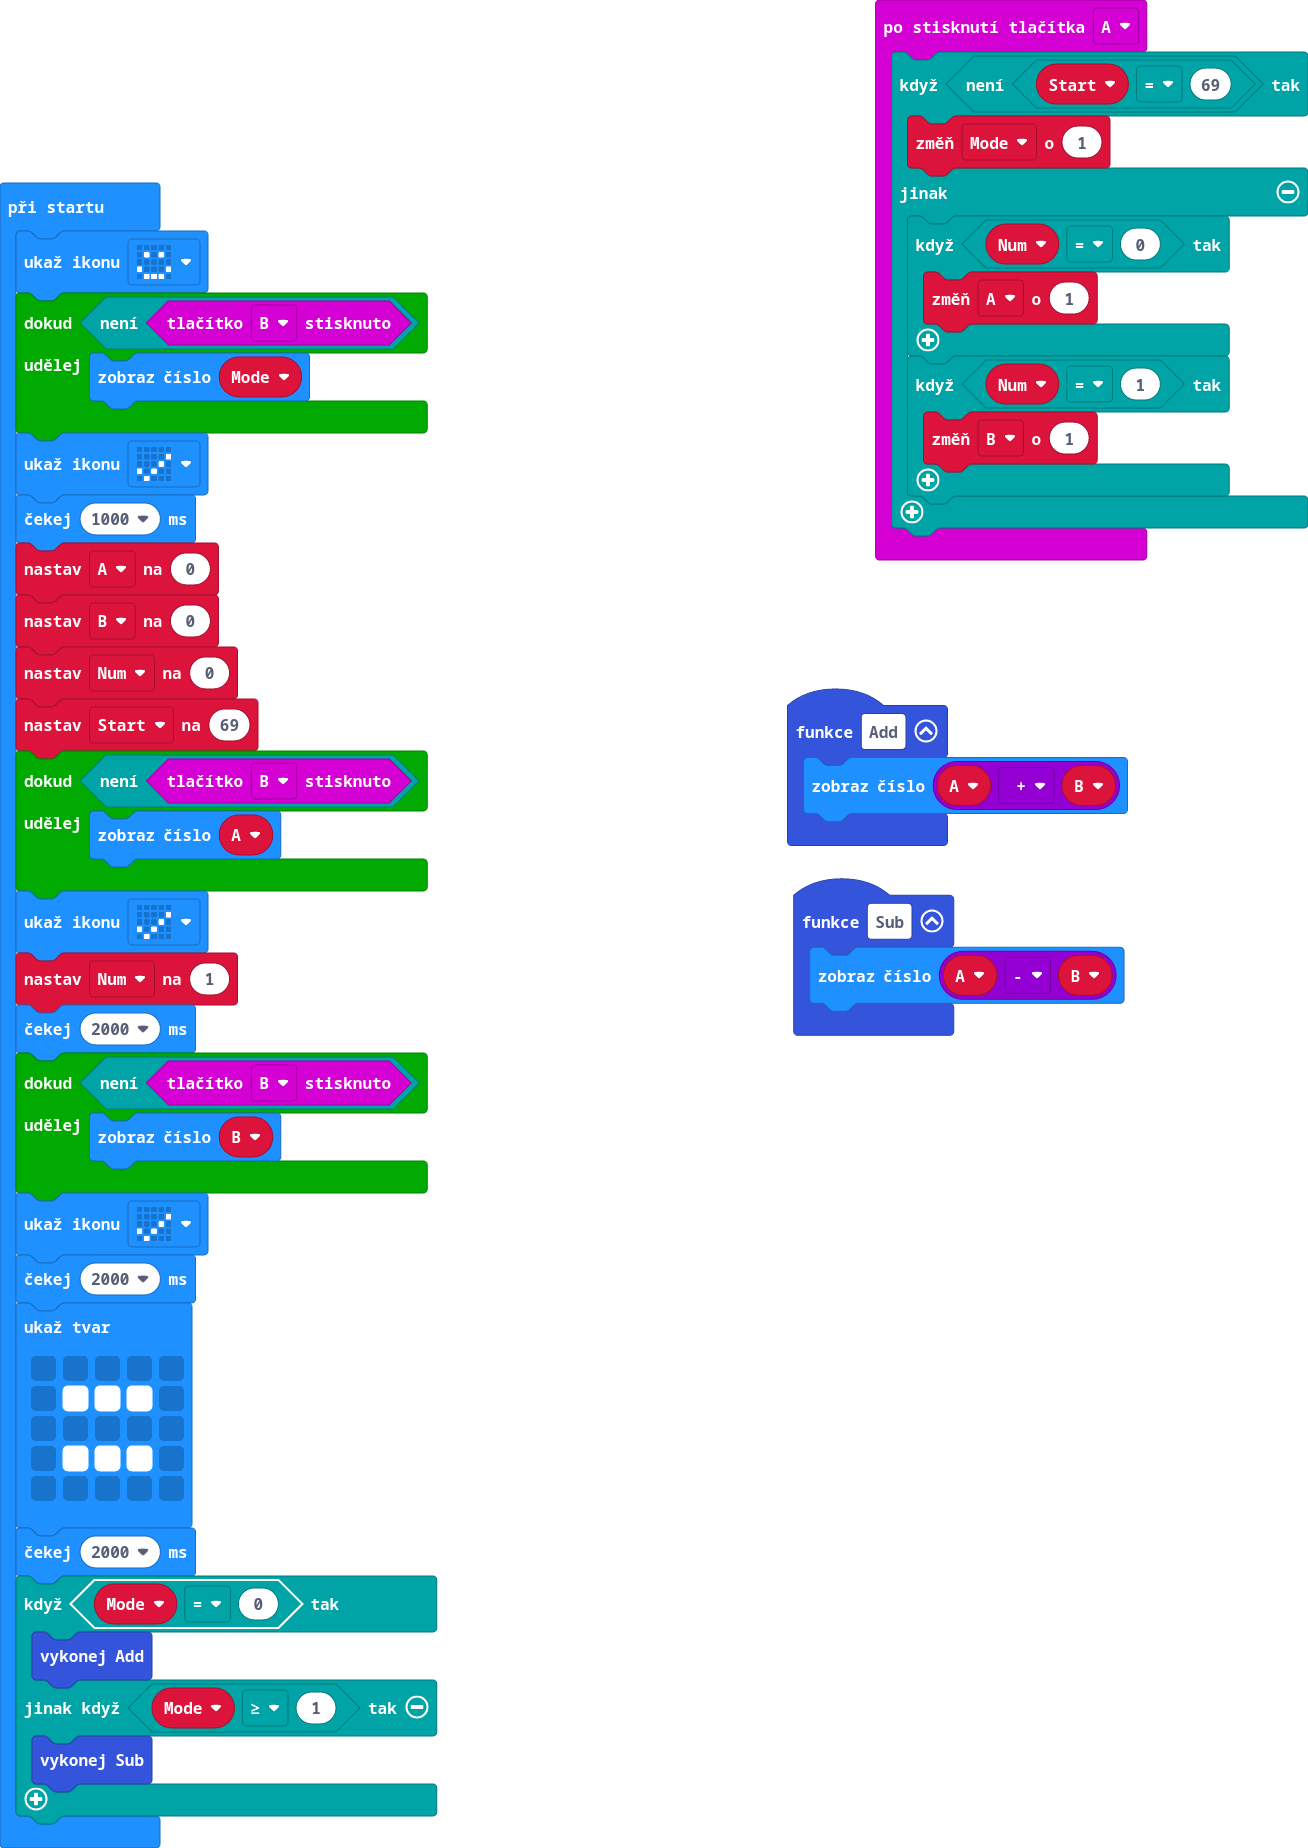
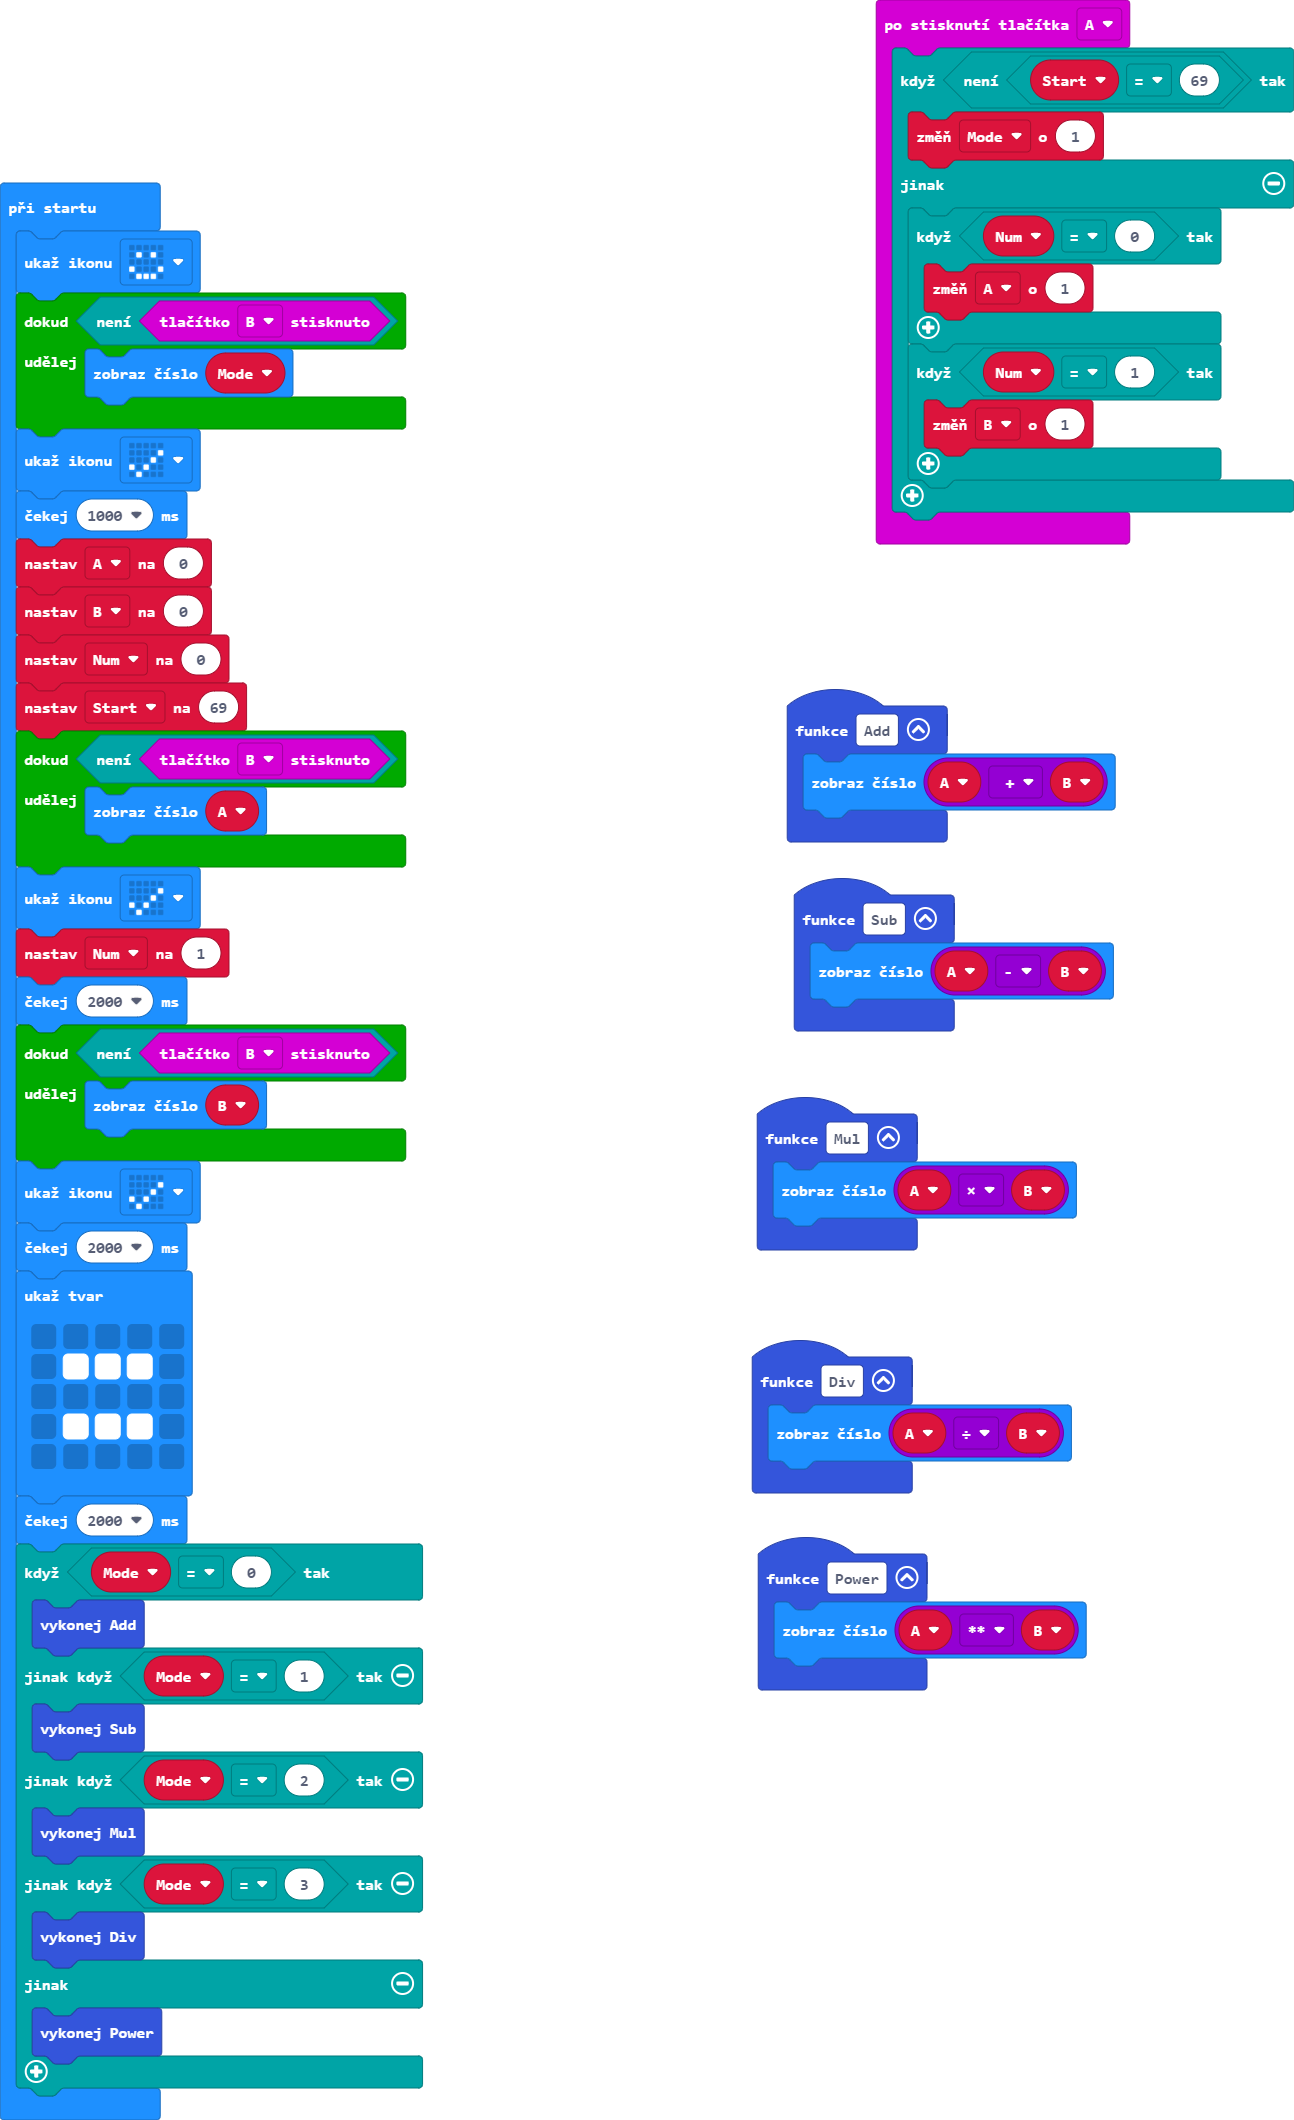
Adding Functions

diff --git a/main.ts b/main.ts
@@ -1,6 +1,12 @@
 function Sub () {
     basic.showNumber(A - B)
 }
+function Power () {
+    basic.showNumber(A ** B)
+}
+function Mul () {
+    basic.showNumber(A * B)
+}
 input.onButtonPressed(Button.A, function () {
     if (!(Start == 69)) {
         Mode += 1
@@ -13,6 +19,9 @@ input.onButtonPressed(Button.A, function () {
         }
     }
 })
+function Div () {
+    basic.showNumber(A / B)
+}
 function Add () {
     basic.showNumber(A + B)
 }
@@ -52,6 +61,12 @@ basic.showLeds(`
 basic.pause(2000)
 if (Mode == 0) {
     Add()
-} else if (Mode >= 1) {
+} else if (Mode == 1) {
     Sub()
+} else if (Mode == 2) {
+    Mul()
+} else if (Mode == 3) {
+    Div()
+} else {
+    Power()
 }
